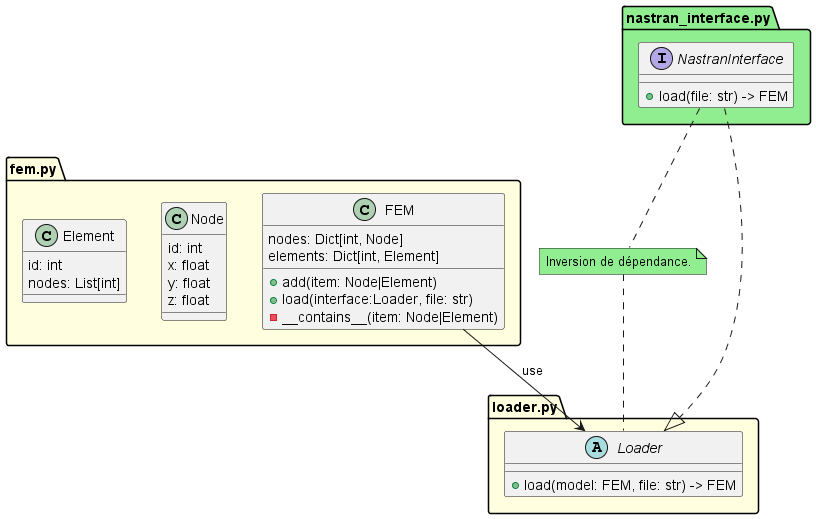
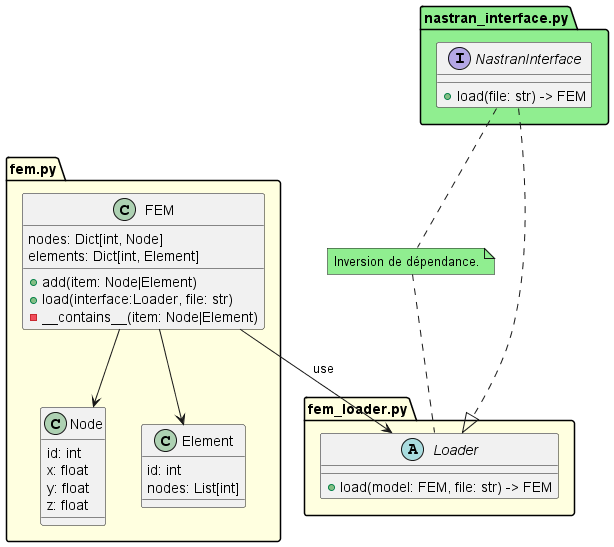
corrections du readme et du diagram UML

diff --git a/README.md b/README.md
@@ -71,13 +71,19 @@ Ce programme a pour objectif de construire et manipuler un modèle éléments fi
 
 Nous introduisons également une interface pour pouvoir construire/charger le modèle FEM à partir d'un fichier texte.
 
-> Les fichiers textes pourraient être au format Nastran, nécessitant un parser plus complexe. Mais la mise en oeuvre serait la même.
+> Les fichiers textes pourraient être au format Nastran, mais cela nécessiterait un parser plus complexe à développer. Cependant la mise en oeuvre serait la même.
+
+<!-- ### L'Architecture Hexagonale
+
+Le principe fondamentale de l'Architecture Hexagonale ou Clean Architecture est de travailler par _couches_ en respectant un principe de dépendance descendante (les couches supérieures on des dépendances vers les couches inférieures, mais l'inverse est interdit). Ainsi des  -->
 
 ### Le _Domain_
 
 Le _Domain_ (contenant la logique métier de notre logiciel) est constitué de 2 fichiers :
 
 - [fem.py](clean_fem/app/domain/fem.py) qui contient les objets relatifs à la création de notre modèle
-- [fem_loader](clean_fem/app/domain/fem_loader.py) qui sert à faire l'inversion de dépendance pour notre interface.
+- [fem_loader.py](clean_fem/app/domain/fem_loader.py) qui sert à faire l'inversion de dépendance pour notre interface.
+
+Le fichier **fem_loader** contient ainsi une classe abstraite intitulée Loader, qui permet de réaliser l'inversion de dépendance, en spécifiant les méthodes devant être implémentées par l'interface.
 
 ![Diagram UML](docs/images/diagram.png)
